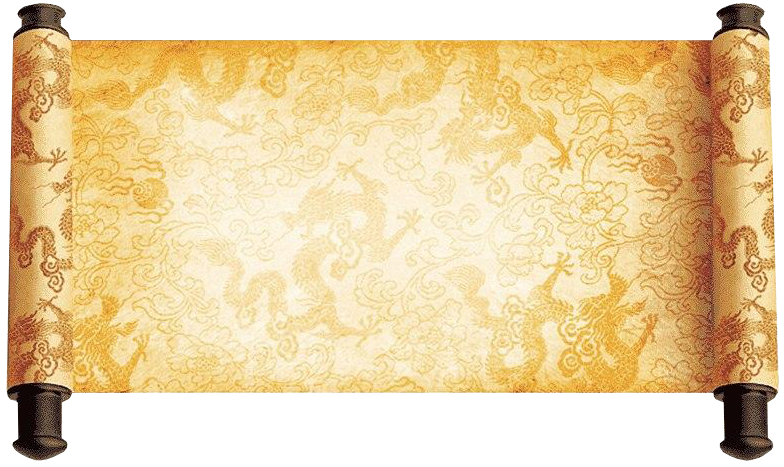
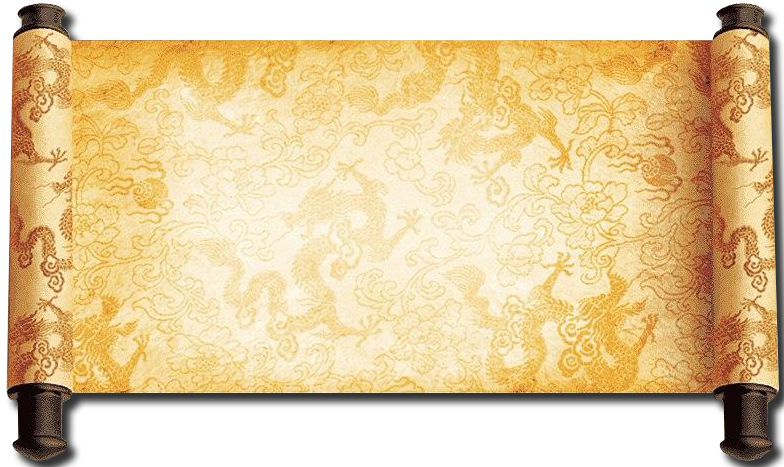
find -> BG + css

diff --git a/src/main/ui/components/find_deck/Find.module.css b/src/main/ui/components/find_deck/Find.module.css
@@ -1,16 +1,13 @@
 .find__wrap {
     width: 100%;
     height: 100vh;
-    /*background-color: #607d8b;*/
     font-family: 'CS Grimrock', sans-serif;
     min-width: 100%;
     min-height: 100vh;
     display: flex;
-
-    background: #607d8b url('../../images/find-bg.jpg') center center no-repeat;
+    background: url('../../images/find-bg.jpg') center center no-repeat;
     background-size: cover;
 }
-
 
 .find__left {
     flex-grow: 1;
@@ -42,6 +39,7 @@
     justify-content: center;
     align-items: center;
     margin-bottom: 25px;
+    margin-left: -78px;
 }
 
 .container__body {
@@ -80,7 +78,7 @@
     margin-top: 69px;
     min-height: 300px;
     max-height: 300px;
-    background: #607d8b url('../../images/unit.jpg') center center no-repeat;
+    background: url('../../images/unit.jpg') center center no-repeat;
     background-size: cover;
 
 }
@@ -93,7 +91,6 @@
     align-items: center;
     font-family: sans-serif;
     border: 1px solid transparent;
-    /*border-bottom: 2px solid orange;*/
 }
 
 .pagination {
@@ -213,7 +210,7 @@
 }
 
 .title__question {
-    width: 64%;
+    width: 63%;
 }
 
 
@@ -283,7 +280,6 @@
     transition-timing-function: ease-out;
     background-color: rgba(0, 0, 0, 0.3);
     color: #088dcd;
-
 }
 
 .deckInfo__button:active, .deckInfo__button:focus {
